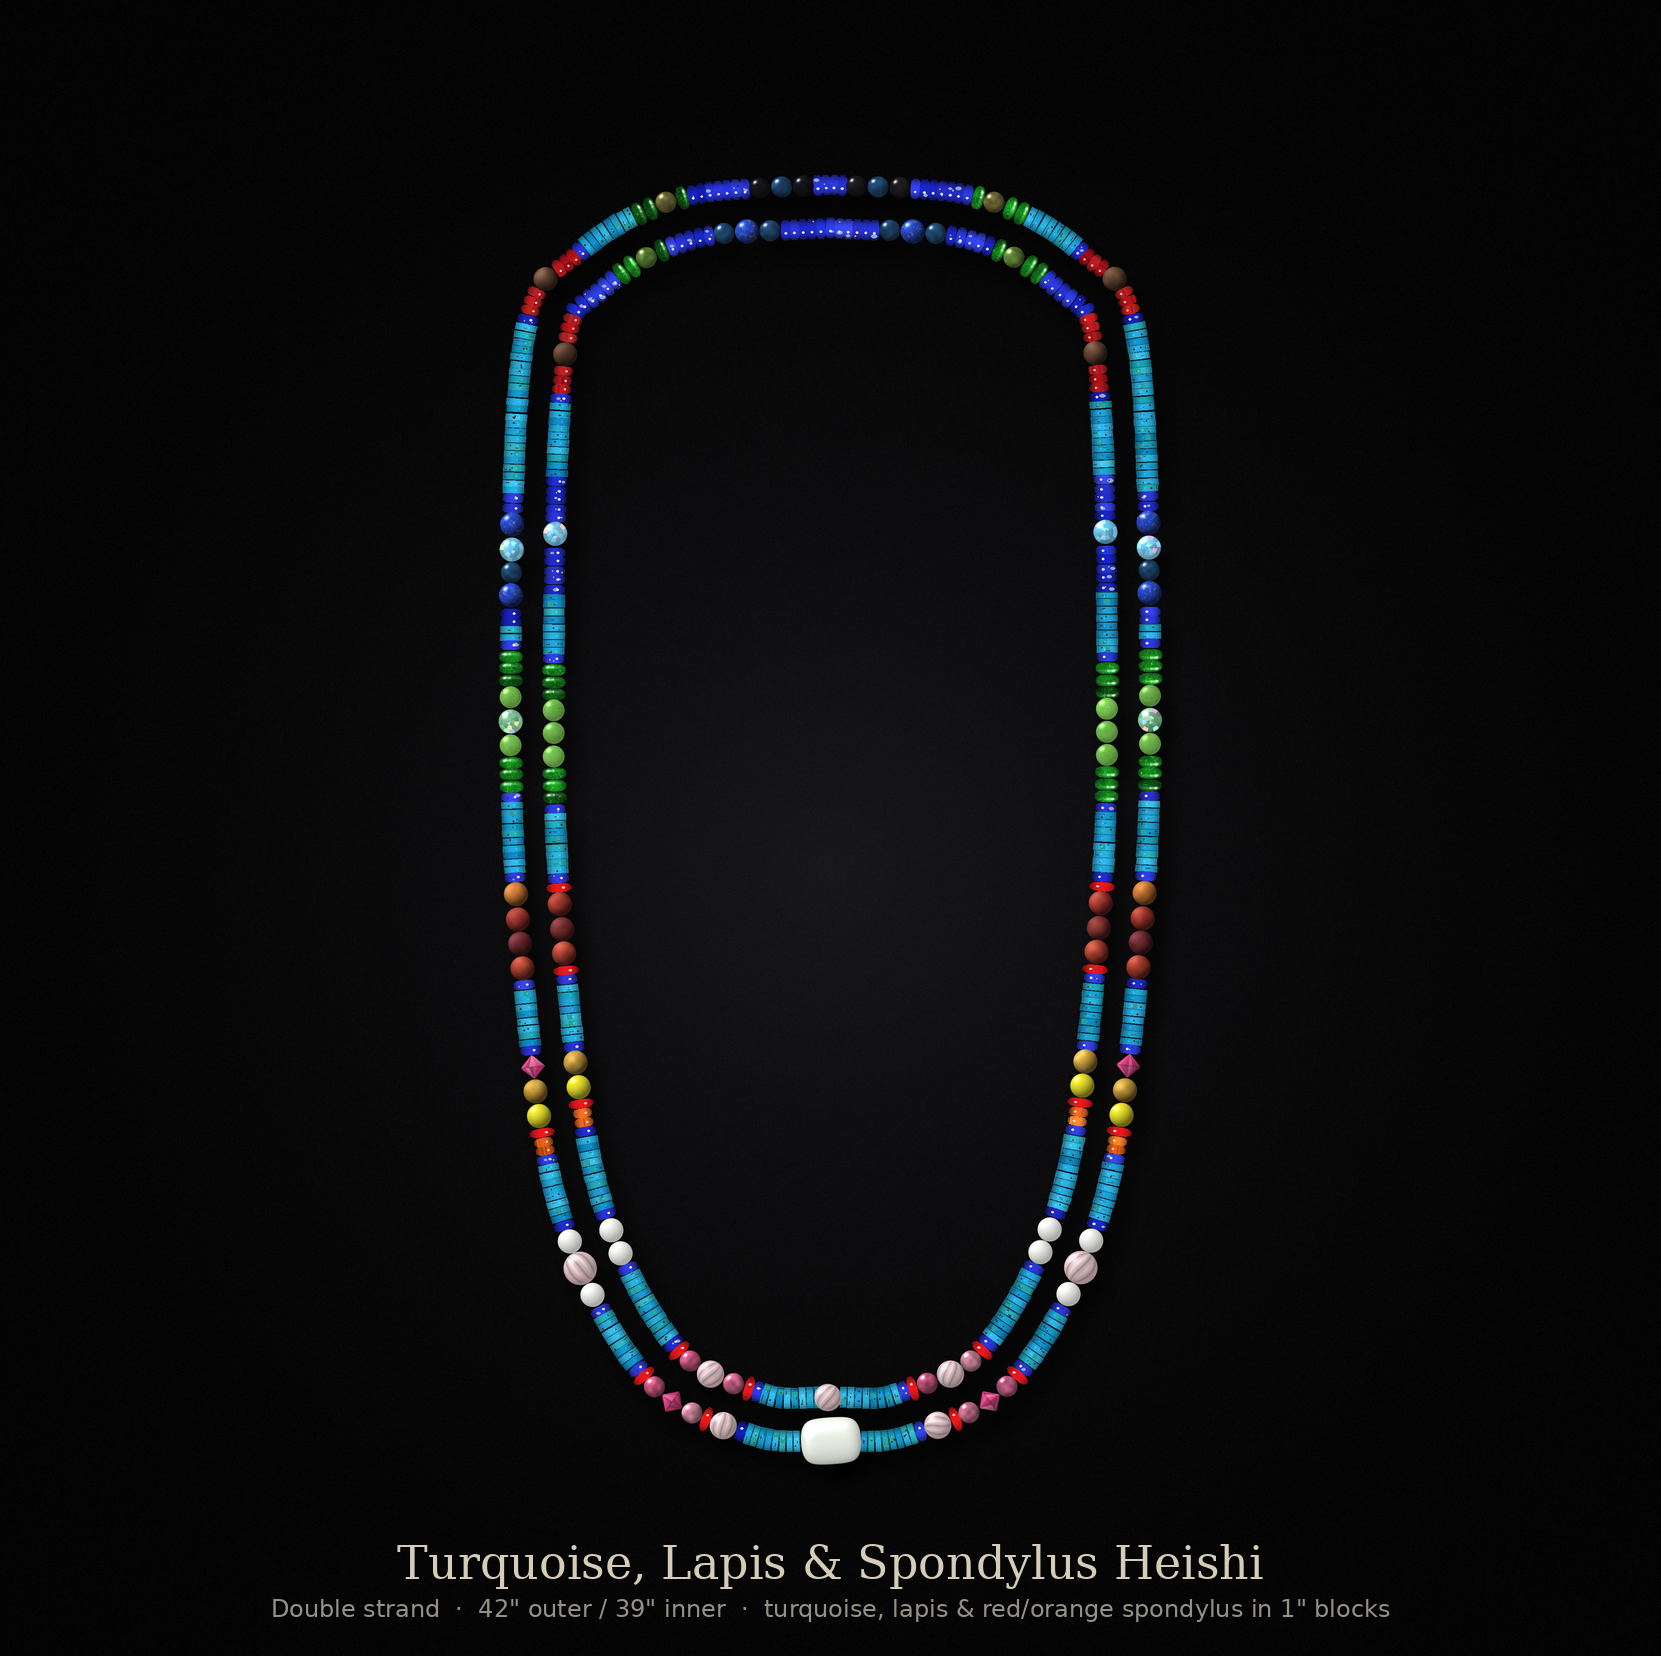
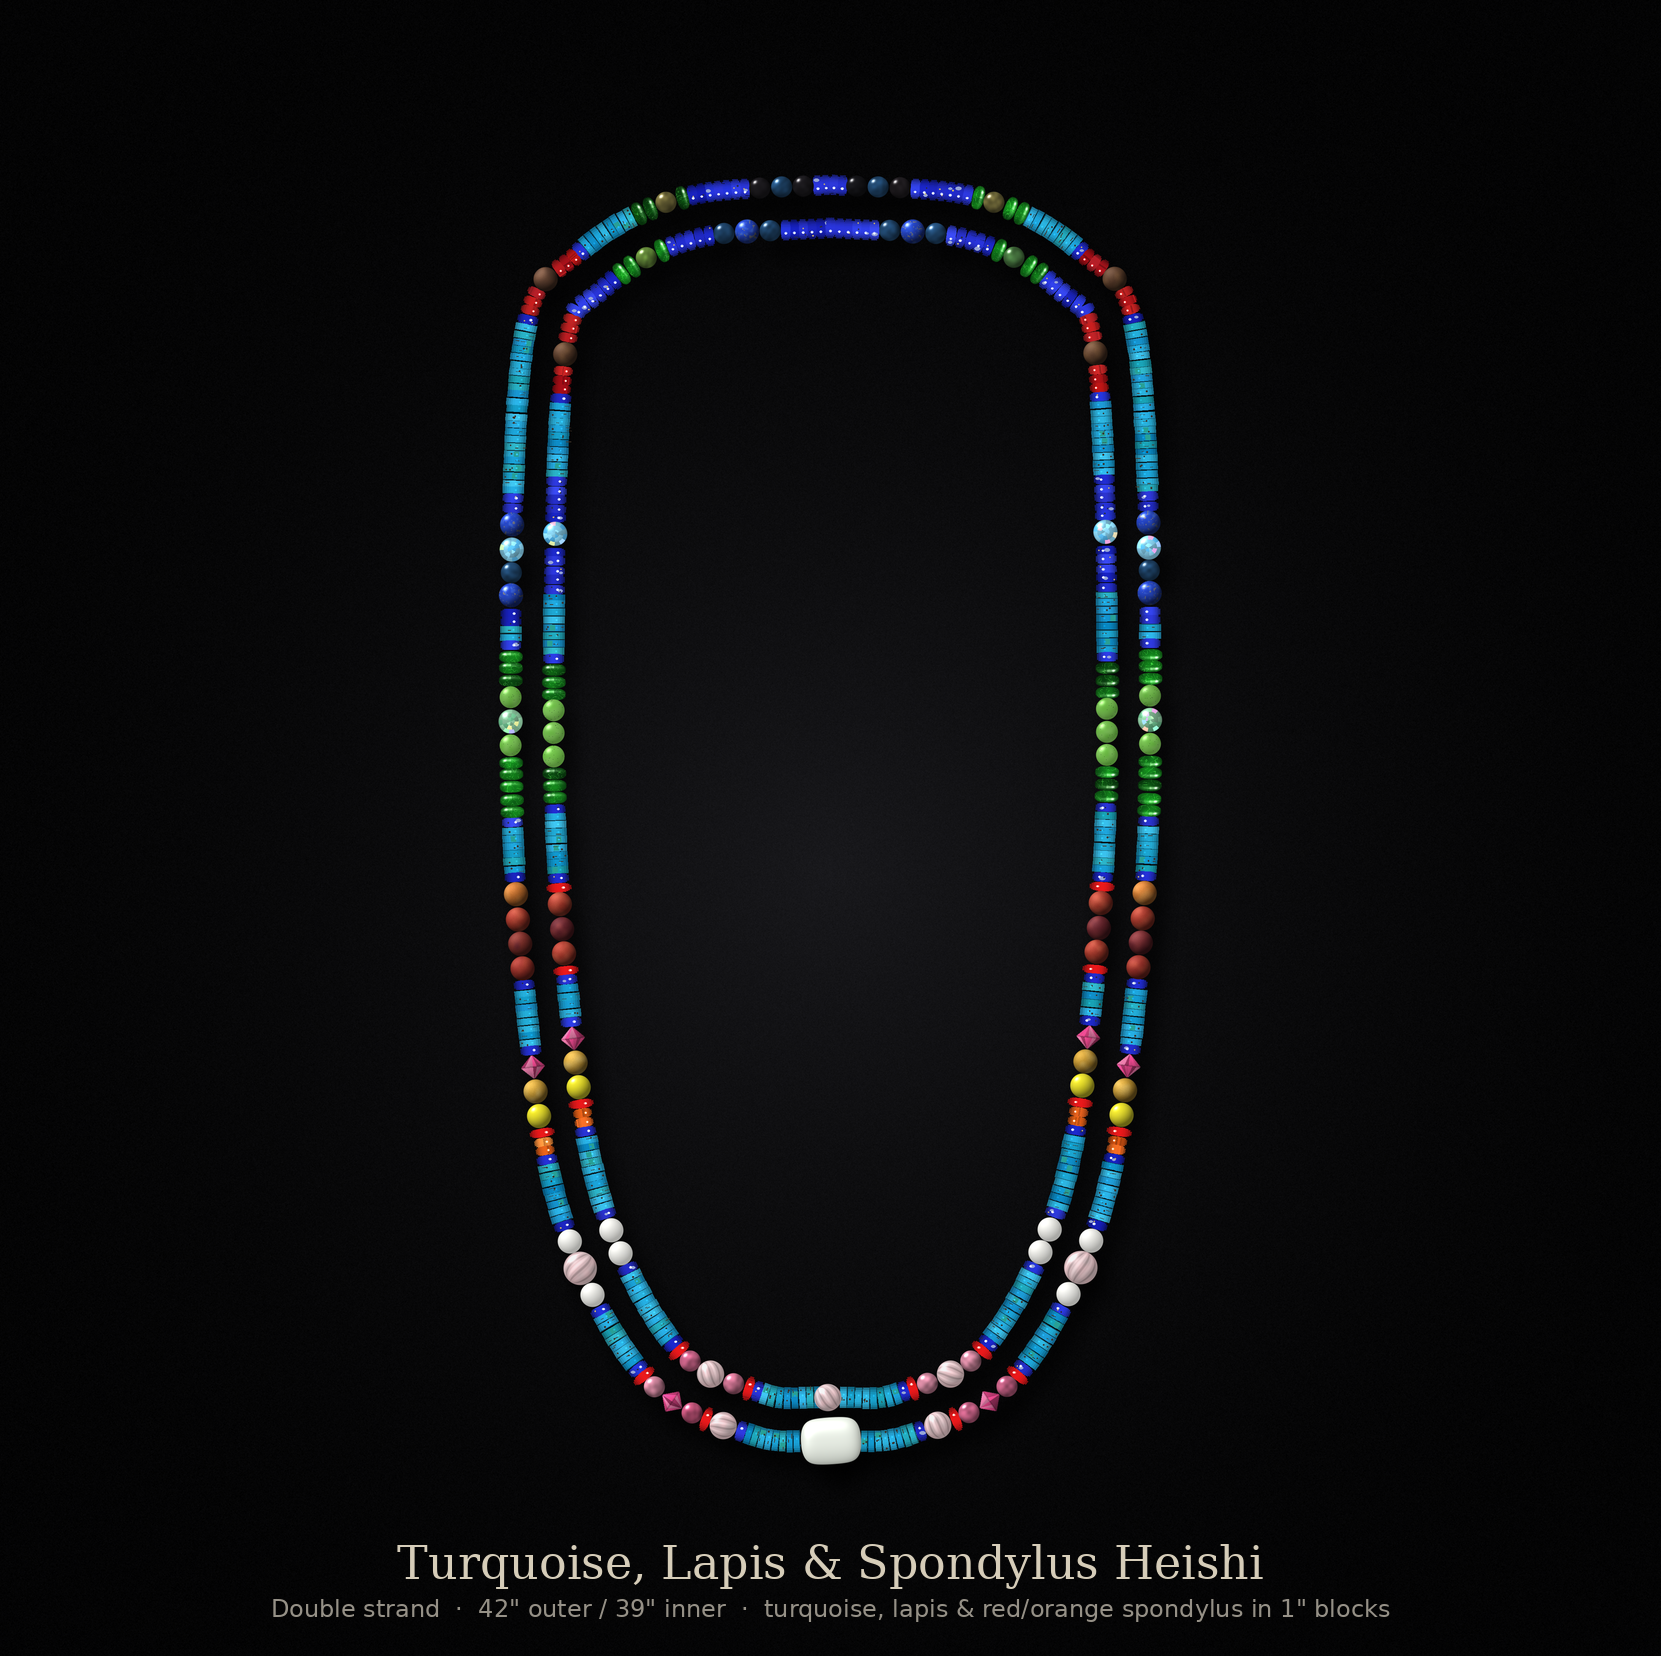
Version 5: outer green extended downward; paired rose bicones in yellow band
Claude-Session: https://claude.ai/code/session_014be1vF4Rdf8sv9Si75Gudv

diff --git a/necklace/render_necklace.py b/necklace/render_necklace.py
@@ -970,7 +970,7 @@ if V4:
                 seq[iy], seq[im] = seq[im], seq[iy]
             return seq
         _o, _i = _ysw(_o), _ysw(_i)
-        BANDS[3] = (_o + ["redglass", "orange", "orange"], _i + ["redglass", "orange", "orange"])   # one red glass under the yellow
+        BANDS[3] = (_o + ["redglass", "orange", "orange"], ["rbic"] + _i + ["redglass", "orange", "orange"])   # + rose bicone beside the outer one
         BANDS = [tuple([("opal8" if k in ("opal10", "opal9") else k) for k in x] for x in b) for b in BANDS]   # 8 mm white opal
         BANDS[4] = (list(BANDS[4][0]) + ["lapisH"],                                      # 1 lapis below the outer blue beads
                     ["lapisH", "lapisH", "lapisH"] + list(BANDS[4][1]))   # 3 lapis above the inner blue glass
@@ -984,7 +984,8 @@ if V4:
         BANDS[4] = (["lapisH"] * 2 + ["lapis8", "blueglass", "tblue", "lapis8"] + ["lapisH"] * 2,   # blue, outer ~43 mm;
                     # its blue glass sits just above (and beside) the inner blue glass
                     ["lapisH"] * 5 + ["blueglass"] + ["lapisH"] * 5)                         # blue, inner ~38 mm
-        BANDS[5] = (F(["jade", "gglass", "jade"], "diop", 6), F(["jade", "jade", "jade"], "diop", 6))   # green, 3 diopside each end
+        BANDS[5] = (["diop"] * 3 + ["jade", "gglass", "jade"] + ["diop"] * 5,     # outer green: 2 extra diopside underneath
+                    F(["jade", "jade", "jade"], "diop", 6))
         BANDS[6] = (["mookorg", "mookrd", "mookred", "mookrd"],                             # brown/red, one bead fewer
                     ["redglass", "mookrd", "mookred", "mookrd", "redglass"])                 # brown/red, one bead fewer
         # frame the green, red-orange and white bands with one lapis heishi at each end, both strands
@@ -1091,9 +1092,13 @@ if V4:
             last = Hs - (st0[-1] + w0[-1])
             widths = [sum(SZ[k] for k in stn) for stn in STN]
             first = Hs - sum(widths) - sum(mids) - last
+            if st == 0:                         # outer green's extra length goes downward, not into the top section
+                first += widths[4] - 52.6
             if st == 1:                         # inner strand: green band raised 4 mm
                 mids[3] -= 4.0
                 mids[4] += 4.0
+                mids[5] -= 8.0                      # inner rose bicone takes its room from the run just above it
+                first += 8.0
             if first < 3.0:                     # take the shortfall from the lapis run behind the neck, not turquoise
                 mids[0] -= 3.0 - first
                 first = 3.0
@@ -1111,6 +1116,9 @@ if V4:
                 for i in (3, 4, 5):                 # only the blue, green and brown bands move down to line up
                     _st[i] = V5_CEN[1][i] * Hs - widths[i] / 2
                 _st[3] += 17.0                      # outer blue band lowered so its blue glass sits just above the inner one
+                _st[4] += 4.0                       # outer green keeps its top; the extra diopside extends it downward
+                for i in (6, 7, 8):                 # bands below keep their places
+                    _st[i] -= widths[4] - 52.6
                 gaps = [_st[0]] + [_st[i + 1] - (_st[i] + widths[i]) for i in range(len(widths) - 1)] + \
                        [Hs - (_st[-1] + widths[-1])]
                 first, mids = gaps[0], gaps[1:-1]
